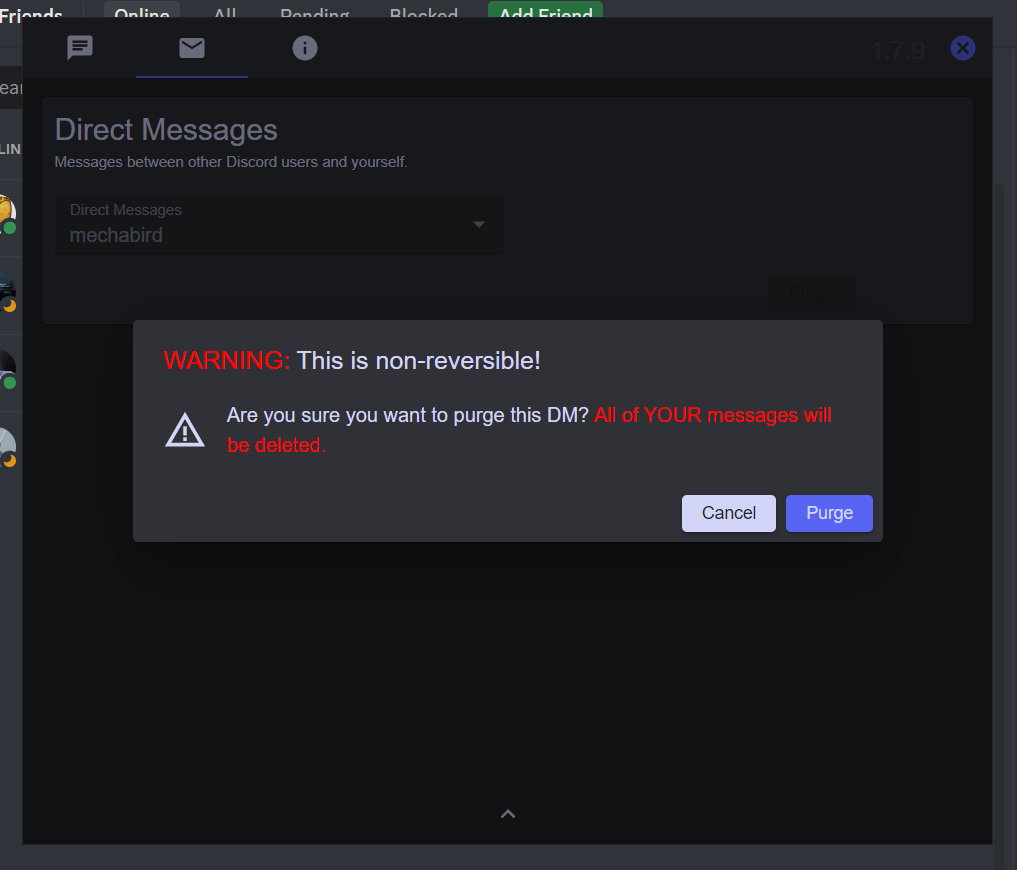
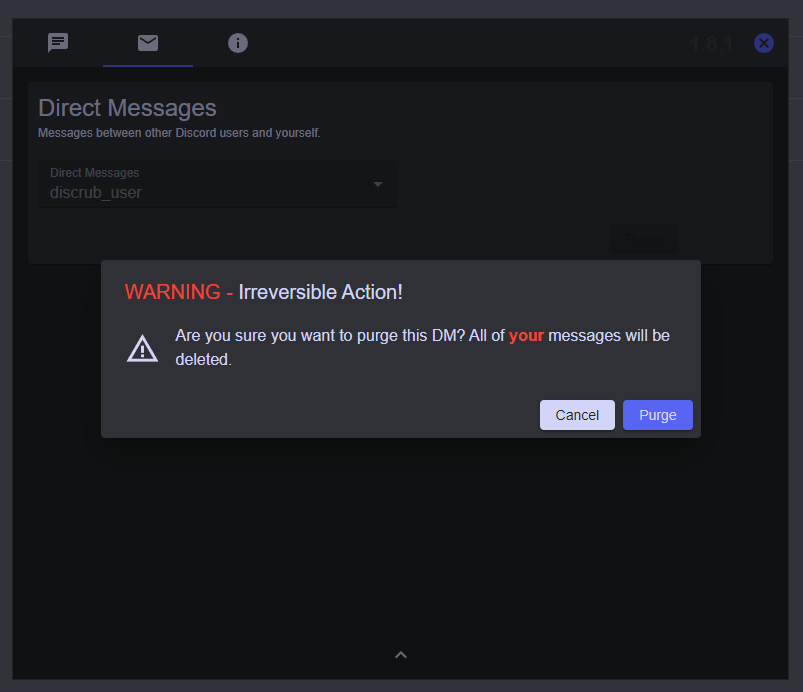
Fix Purge dialog warning styling

Changed region(s): [[0.0, 0.0, 0.9963, 1.0], [0.1245, 0.3642, 0.8717, 0.6373]]

diff --git a/src/components/ChannelMessages/PurgeGuild.jsx b/src/components/ChannelMessages/PurgeGuild.jsx
@@ -157,8 +157,8 @@ const PurgeGuild = ({ dialogOpen, setDialogOpen, isDm = false }) => {
             `${deleteType} Purged`
           ) : (
             <>
-              <span style={{ color: "red" }}>WARNING: </span> This is
-              non-reversible!
+              <span className={classes.purgeWarning}>WARNING - </span>{" "}
+              Irreversible Action!
             </>
           )}
         </DialogTitle>
@@ -182,11 +182,10 @@ const PurgeGuild = ({ dialogOpen, setDialogOpen, isDm = false }) => {
                   `${deleteType} was successfully purged!`
                 ) : (
                   <span>
-                    Are you sure you want to purge this {deleteType}?{" "}
-                    <span style={{ color: "red" }}>
-                      All of YOUR messages will be deleted
-                      {isDm ? "." : " for each Channel."}
-                    </span>
+                    Are you sure you want to purge this {deleteType}? All of{" "}
+                    <strong className={classes.purgeWarning}>your</strong>{" "}
+                    messages will be deleted
+                    {isDm ? "." : " for each Channel."}
                   </span>
                 )}
               </DialogContentText>

diff --git a/src/components/ChannelMessages/ChannelMessages.styles.js b/src/components/ChannelMessages/ChannelMessages.styles.js
@@ -27,6 +27,9 @@ const ChannelMessagesStyles = makeStyles(() => ({
     opacity: ({ purgeDialogOpen, exportDialogOpen }) =>
       (purgeDialogOpen || exportDialogOpen) && 0,
   },
+  purgeWarning: {
+    color: "#f44336",
+  },
 }));
 
 export default ChannelMessagesStyles;
